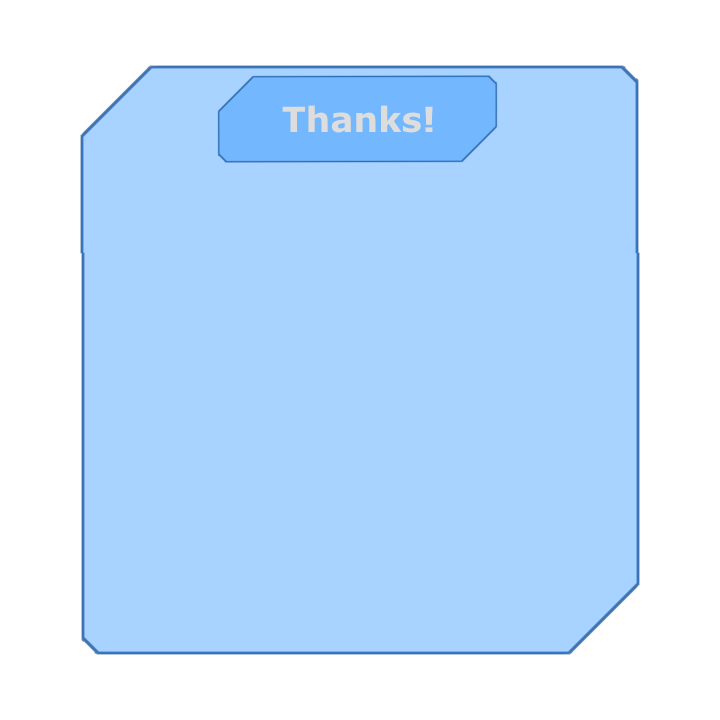
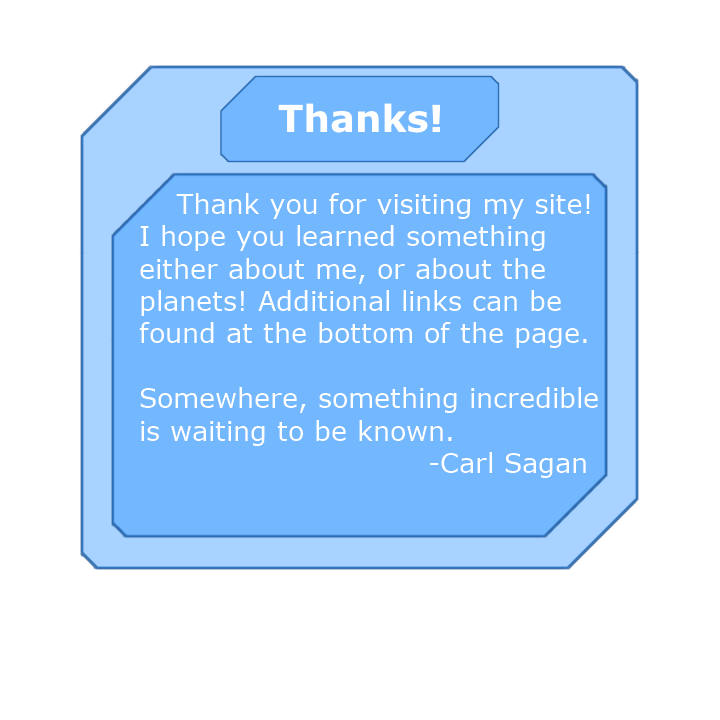
Updated pages and fixed html to include them

diff --git a/SkyHoffert_files/SkyHoffert.html b/SkyHoffert_files/SkyHoffert.html
@@ -19,204 +19,110 @@
 		<div class="row">
 			<div class="col-xs-2"></div>
 			<div class="col-xs-8" >
-			<center>
 				<img class="siteTitleImage" src="images/SkyHoffertSiteTitle.png" />
-			</center>
 			</div>
 			<div class="col-xs-2"></div>
 		</div>
 		
 		<div class="row siteSection" style="padding-top: 10%" >
 			<div class="col-md-6 col-xs-12 col-md-push-6">
-			<center>
 				<img class="siteImage" src="images/MercurySimple2.png" />
-			<center>
 			</div>
 			
 			<div class="col-md-6 col-xs-12 col-md-pull-6" >
-					<img class="siteImage" src="images/WelcomePage.png" />
+				<img class="siteImage" src="images/SampleWelcomePage.png" />
 			</div>
 		</div>
 		
 		<div class="row siteSection">
 			<div class="col-md-6 col-xs-12">
-				<center>
-					<img class="siteImage" src="images/VenusSimple.png" />
-				</center>
+				<img class="siteImage" src="images/VenusSimple.png" />
 			</div>
 			
 			<div class="col-md-6 col-xs-12" >
-				<center>
-					<h2>My Values</h2>
-					<p>With an open mind, I seek truth in the universe and appreciate every moment the wonderful life I have.<br></p>
-					<p>Actively, I do my best to care for the environment and spread my passion for space exploration!<br></p>
-					<p>If we keep polluting our atmosphere without regulation, our climate could become simliar to the climate on Venus, where a runaway greenhouse effect (mainly caused by CO<sub>2</sub>) could heat the planet to uninhabitable temperatures.<br></p>
-				</center>	
+				<img class="siteImage" src="images/ValuesPage.png" />
 			</div>
 		</div>
 
 		<div class="row siteSection">			
 			<div class="col-md-6 col-xs-12 col-md-push-6">
-				<center>
-					<img class="siteImage" src="images/EarthSimple.png" />
-				</center>
+				<img class="siteImage" src="images/EarthSimple.png" />
 			</div>
 			
 			<div class="col-md-6 col-xs-12 col-md-pull-6" >
-				<center>
-					<h2>Home</h2>
-					<p>&nbsp;<br>Home for me is an undistinguishable corner of our Pale Blue Dot, the Earth.<br></p>
-					<p>I grew up in Central Pennsylvania and decided to study Computer Engineering at Virginia Tech in Blacksburg, VA.<br></p>
-					<p>Most of my younger life consisted of going to my family's cabin near a lake, playing Lacrosse for my high school and various summer clubs, and programming simple computer games with Java and C++.</p>
-				</center>
+				<img class="siteImage" src="images/HomePage.png" />
 			</div>
 		</div>
 
 		<div class="row siteSection" >
 			<div class="col-md-6 col-xs-12">
-				<center>
-					<img class="siteImage" src="images/MarsSimple.png" />
-				<center>
+				<img class="siteImage" src="images/MarsSimple.png" />
 			</div>
 			
 			<div class="col-md-6 col-xs-12" >
-				<center>
-					<h2>Future Goals</h2>
-					<p>&nbsp;<br>As a species, we have accomplished so much in just a short amount of time.<br></p>
-					<p>We are also stuck in the past, killing other humans just to show we have power.<br></p>
-					<p>As a civilization we must keep moving forward.<br></p>
-					<p>I try my best to advocate for science and space exploration. Every day, I look up and wonder what it would be like to explore some new place in the Solar System or beyond.<br></p>
-					<p>Who knows, maybe my future will lead me to a place like Mars!</p>
-				</center>
+				<img class="siteImage" src="images/GoalsPage.png" />
 			</div>
 		</div>
 
 		<div class="row siteSection">
 			<div class="col-xs-12">
-				<center>
-					<img class="siteFullWidth" src="images/AsteroidBeltSimple.png" />
-				</center>
+				<img class="siteFullWidth" src="images/AsteroidBeltSimple.png" />
 			</div>
 		</div>
 
 		<div class="row siteSection">
 			<div class="col-md-6 col-xs-12 col-md-push-3">
-				<center>
-					<img class="siteImage" src="images/JupiterSimple.png" />
-				</center>
+				<img class="siteImage" src="images/JupiterSimple.png" />
 			</div>
-		
-			<!-- the problem section
-			<div class="col-xs-12 hidden-md-up" >
-				<center>
-					<h2>Experience</h2>
-				<center>
-			</div>
-			-->
 			
 			<div class="col-xs-6 col-md-3 col-md-pull-6" >
-				<center>
-					<img src="http://media.superpages.com/media/photos//01/27/65/17/78/thumb/01276517783059.jpg" /><br>
-					<p>In high school I worked for my Father's company H&amp;M Diversified. I had a large variety of experience here. I cut glass, assembled metal frames, installed glass/frames into commercial buildings, helped install shower enclosures in residential buildings, transported supplies with large vehicles, approved invoices, checked CAD drawings, and measured with project managers. This job gave me a huge variety of general knowledge and skills with tools that I would not have recieved otherwise.<br>&nbsp;</p>
-				</center>
+				<img class="siteImage" src="images/HMPage.png" />
 			</div>
 			<div class="col-xs-6 col-md-3">
-				<center>
-					<img src="https://www.cs.umd.edu/cscareerfair/sites/default/files/cs.umd.edu.openhouse/styles/200px_wide/public/images/company/Solers.png?itok=lfyhKnEN&c=d778dbe46ed5782a42e890b26e85b96d" style="background-color: #FFFFFF" /><br>
-					<p>During my sophomore year at Virginia Tech, I decided to take a co-op position at Solers, Inc. There, I did a lot of bleeding edge work with popular software such as Amazon AWS for cloud-computing, Kubernetes/docker container management, automation software such as Puppet, building tools like Maven, and cross server database storage such as Splunk.<br></p>
-				</center>
-			</div>
-			<div class="col-xs-12">
-				<center>
-					<br><p>My dream is that this experience will make me an outstanding candidate for a job dealing with space science. One way or another, I will find a way to help humanity reach its arms towards space!</p>
-				</center>
+				<img class="siteImage" src="images/SolersPage.png" />
 			</div>
 		</div>
 
 		<div class="row siteSection">
 			<div class="col-xs-12 col-md-6 col-md-push-3" >
-				<center>
-					<img class="siteImage" src="images/SaturnSimple.png" />
-				</center>
+				<img class="siteImage" src="images/SaturnSimple.png" />
 			</div>
 		
 			<div class="col-xs-6 col-md-3 col-md-pull-6" >
-				<center>
-					<h3>College Projects</h3><br>
-					<p><b>Astrobotics</b><br></p>
-					<p>The Virginia Tech Astrobotics team competes in the NASA Robotic Mining Competition (RMC) each May. Our team placed 9th in last year's competition. My responsibilities included: robot controller programming, android application development, networking control, webcam video streaming, and I gave presentations for other engineering students to earn us funding.<br></p>
-					<br>&nbsp;<br>
-					<p><b>CanSat</b><br></p>
-					<p>CanSat is a new team at Virginia Tech, so we are still learning about the project every year and figuring out what we need for each competition. My responsibilities include: ground station design, data representation, sensor integration, and telemetry data transmission.<br></p>
-				</center>
+				<img class="siteImage" src="images/CollegeProjectsPage.png" />
 			</div>
 			<div class="col-xs-6 col-md-3" >
-				<center>
-					<h3>Personal Projects</h3><br>
-					<p><b>Game Developer</b><br></p>
-					<p>Although I have not released any of my games on a game store, I have learned a tremendous amount from developing games. I have experience with: OpenGL, Unity, Java swing, artwork creation, composing with MIDI controllers, and user input handling.<br></p>
-					<br>&nbsp;<br>
-					<p><b>Radio Astronomy</b><br></p>
-					<p>This is quite honestly the project I am most excited by at the moment. My deepest dreams are to have a job working on spacecraft and learning about other planets, star systems, or galaxies. Radio Astronomy is my best avenue to accomplish that in my current situation.<br></p>
-					<p><b>Website Development</b><br></p>
-					<p>I also made this website myself! It may not be anything too impressive, but it was a great experience learning about html, css, bootstrap, domains, and static website hosting.<br></p>
-				</center>
+				<img class="siteImage" src="images/PersonalProjectsPage.png" />
 			</div>
 		</div>
 		
 		<div class="row siteSection">
 			<div class="col-xs-12 col-md-6 col-md-push-6">
-				<center>
-					<img class="siteImage" src="images/UranusSimple.png" />
-				</center>
+				<img class="siteImage" src="images/UranusSimple.png" />
 			</div>
 		
 			<div class="col-xs-12 col-md-6 col-md-pull-6" >
-				<center>
-					<h2>Activities</h2>
-					<p>Big Brother Big Sister Volunteer<br></p>
-					<p>Planetary Society Volunteer<br></p>
-					<p>HAM Radio Operator<br></p>
-					<p>Study Abroad in Germany<br></p>
-					<p>&nbsp;<br><br></p>
-				</center>	
+				<img class="siteImage" src="images/ActivitiesPage.png" />
 			</div>
 		</div>
 		
 		<div class="row siteSection">
 			<div class="col-xs-12 col-md-6">
-				<center>
-					<img class="siteImage" src="images/NeptuneSimple.png" />
-				</center>
+				<img class="siteImage" src="images/NeptuneSimple.png" />
 			</div>
 			
 			<div class="col-xs-12 col-md-6" >
-				<center>
-					<h2>Skills</h2><br>
-					<strong style="padding-left: 5em;" >Beginner - Advanced<br></strong>
-					<p>Java<p style="padding-left: 2em;">* * * * </p><br></p>
-					<p>C++<br></p>
-					<p>Inventor<br></p>
-					<p>HTML<br></p>
-					<br><p>..</p>
-					<p>&nbsp;<br><br></p>
-				</center>	
+				<img class="siteImage" src="images/SkillsPage.png" />
 			</div>
 		</div>
 		
 		<div class="row siteSection">
-			<div class="col-xs-12">
-				<center>
-					<img class="siteImage" src="images/PlutoSimple.png" />
-				</center>
+			<div class="col-xs-12 col-md-6 col-md-push-6">
+				<img class="siteImage" src="images/PlutoSimple.png" />
 			</div>
 
-			<div class="col-xs-12" >
-				<center>
-					<h2>Thanks!</h2><br>
-					<p>Somewhere, something incredible is waiting to be known.<br></p>
-					<p style="padding-left: 10em;" >- Carl Sagan<br></p>
-				</center>
+			<div class="col-xs-12 col-md-6 col-md-pull-6" >
+				<img class="siteImage" src="images/ThanksPage.png" />
 			</div>
 
 		</div>
